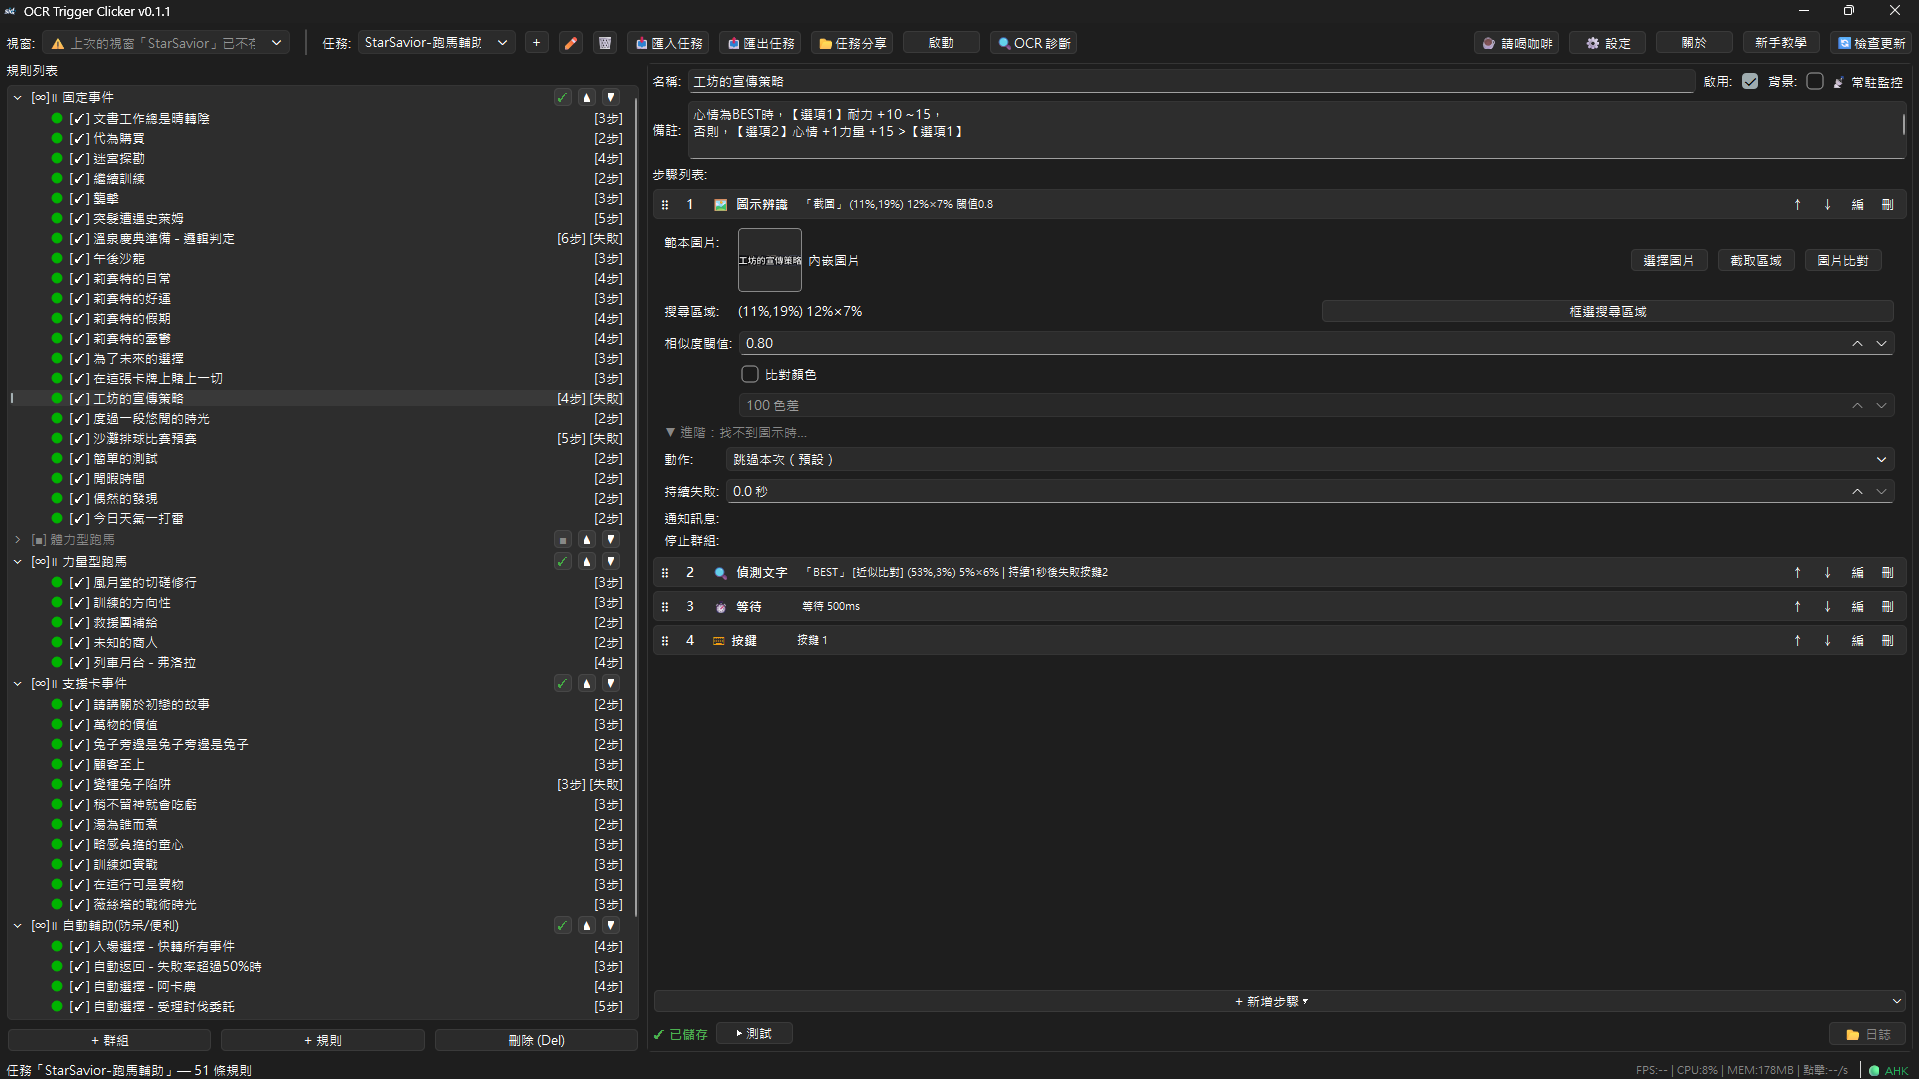
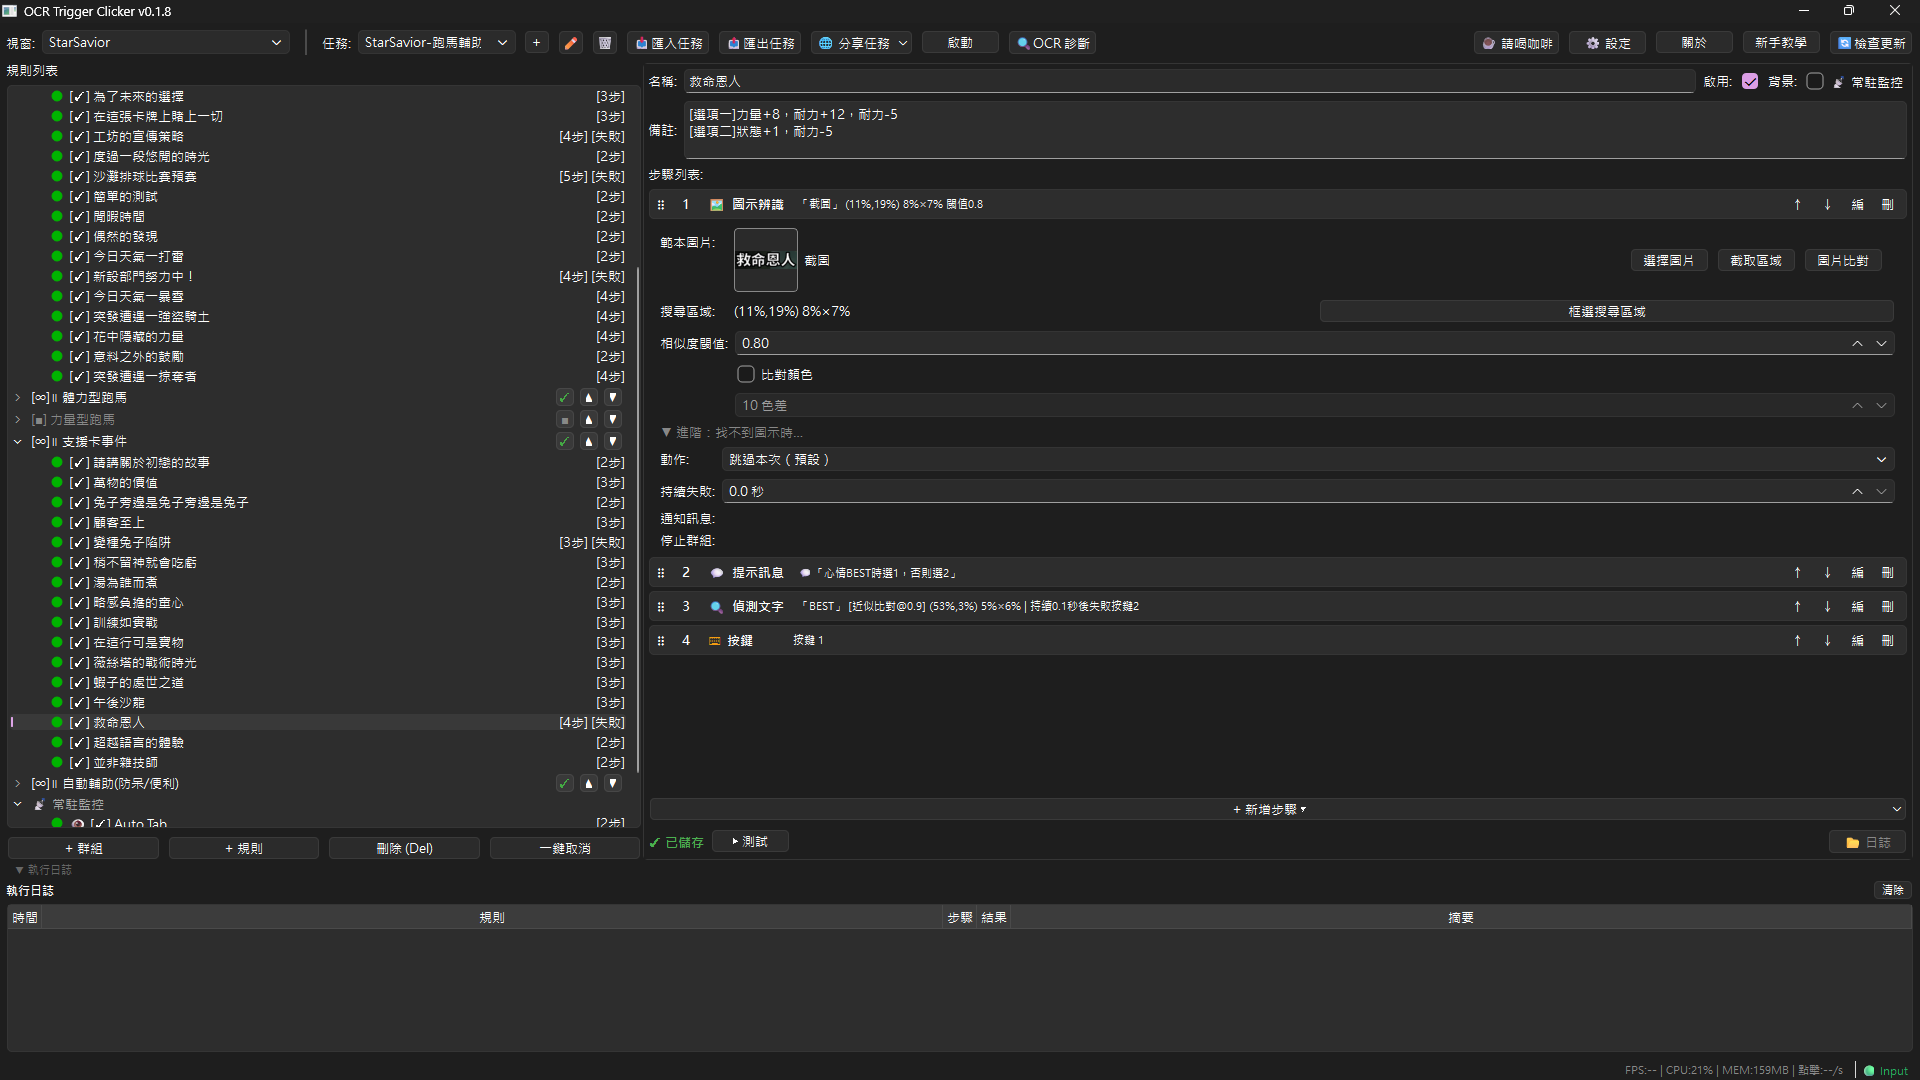
refactor: remove AHK stubs, rename _ahk to _input_mod, update screenshots

diff --git a/core/05_main_loop.py b/core/05_main_loop.py
@@ -19,7 +19,7 @@ from i18n import T  # noqa: E402
 
 _screenshot = load_sibling("screenshot", "core/01_screenshot.py")
 _ocr = load_sibling("ocr_engine", "core/02_ocr_engine.py")
-_ahk = load_sibling("pynput_input", "core/03_pynput_input.py")
+_input_mod = load_sibling("pynput_input", "core/03_pynput_input.py")
 _rule = load_sibling("rule_engine", "core/04_rule_engine.py")
 _perf = load_sibling("performance_monitor", "core/10_performance_monitor.py")
 PerformanceMonitor = _perf.PerformanceMonitor
@@ -274,13 +274,13 @@ class MainLoop:
         return None
 
     def _send_click(self, x: int, y: int, button: str) -> bool:
-        return _ahk.send_click(x, y, button)
+        return _input_mod.send_click(x, y, button)
 
     def _send_key(self, key: str) -> bool:
-        return _ahk.send_key(key)
+        return _input_mod.send_key(key)
 
     def _send_scroll(self, direction: str) -> bool:
-        return _ahk.send_scroll(1, direction)
+        return _input_mod.send_scroll(1, direction)
 
     def _to_screen_coords(self, rect: dict, x: int, y: int) -> tuple[int, int]:
         return (int(round(rect["x"] + x)), int(round(rect["y"] + y)))
@@ -687,7 +687,7 @@ class MainLoop:
 
         hold_ms = params.get("hold_ms", 0)
         if hold_ms > 0:
-            ok = _ahk.send_hold_key(key, hold_ms)
+            ok = _input_mod.send_hold_key(key, hold_ms)
         else:
             ok = self._send_key(key)
         if ok:
@@ -738,7 +738,7 @@ class MainLoop:
         sex, sey = self._to_screen_coords(ctx.rect, sx + dx, sy + dy)
 
         activate_window(self._window_title)
-        ok = _ahk.send_drag(ssx, ssy, sex, sey, button)
+        ok = _input_mod.send_drag(ssx, ssy, sex, sey, button)
         if not ok:
             return StepResult("stop", detail=T("exec_log.detail.comms_fail"))
         self._perf.record_click()
@@ -1303,7 +1303,7 @@ class MainLoop:
         self._emergency_event.set()
         self._stop_event.set()
         self._pause_event.set()
-        _ahk.send_emergency_stop()
+        _input_mod.send_emergency_stop()
         if self.on_emergency:
             self.on_emergency()
 
@@ -1498,10 +1498,10 @@ if __name__ == "__main__":
     assert result.action == "stop", "on_fail stop should return stop"
 
     mock_called = []
-    _orig_k = _ahk.send_key
-    _ahk.send_key = lambda k: mock_called.append(k) or True  # type: ignore[assignment]
+    _orig_k = _input_mod.send_key
+    _input_mod.send_key = lambda k: mock_called.append(k) or True  # type: ignore[assignment]
     result = ml._handle_on_fail({"on_fail": {"action": "key", "key": "Escape"}}, ctx, test_rule)
-    _ahk.send_key = _orig_k
+    _input_mod.send_key = _orig_k
     assert result.action == "continue", "on_fail key should return continue"
     assert ctx.on_fail_fired, "on_fail key should set on_fail_fired"
     assert mock_called == ["Escape"], f"on_fail key should send Escape, got {mock_called}"

diff --git a/tests/test_main_loop.py b/tests/test_main_loop.py
@@ -16,7 +16,7 @@ from _loader import load_sibling  # noqa: E402
 from core.rule_models import Rule, RuleGroup, Step  # noqa: E402
 
 _rule = load_sibling("rule_engine", "core/04_rule_engine.py")
-_ahk = load_sibling("pynput_input", "core/03_pynput_input.py")
+_input_mod = load_sibling("pynput_input", "core/03_pynput_input.py")
 _perf = load_sibling("performance_monitor", "core/10_performance_monitor.py")
 _tmpl = load_sibling("template_matching", "core/11_template_matching.py")
 img_to_b64 = _tmpl.img_to_b64
@@ -205,10 +205,10 @@ def test_handle_on_fail_stop_key():
     assert result.action == "stop"
 
     mock_called = []
-    _orig_k = _ahk.send_key
-    _ahk.send_key = lambda k: mock_called.append(k) or True
+    _orig_k = _input_mod.send_key
+    _input_mod.send_key = lambda k: mock_called.append(k) or True
     result = ml._handle_on_fail({"on_fail": {"action": "key", "key": "Escape"}}, ctx, test_rule)
-    _ahk.send_key = _orig_k
+    _input_mod.send_key = _orig_k
     assert result.action == "continue"
     assert mock_called == ["Escape"]
 

diff --git a/gui/06_gui_main.py b/gui/06_gui_main.py
@@ -2471,7 +2471,6 @@ class _InlineActionEditor(QWidget):
         return {"type": "key", "key": self._key.currentData() or self._key.currentText()}
 
 
-_ahk_mod = load_sibling("pynput_input", "core/03_pynput_input.py")
 _main_loop_mod = load_sibling("main_loop", "core/05_main_loop.py")
 MainLoop = _main_loop_mod.MainLoop
 
@@ -3113,7 +3112,6 @@ class MainWindow(QMainWindow):
             self._status_bar.showMessage(T("status.partial_init_error", e=e))
 
     def _init_input_async(self):
-        self._ahk_ready = True
         self._update_input_status(True)
         self._status_bar.showMessage("✔ Input 已就緒", 3000)
 

diff --git a/core/03_pynput_input.py b/core/03_pynput_input.py
@@ -1,7 +1,6 @@
 import logging
 import threading
 import time
-from typing import Optional
 
 import pynput.keyboard
 import pynput.mouse
@@ -229,22 +228,6 @@ def send_hold_key(key: str, duration_ms: int = 0) -> bool:
 def send_emergency_stop() -> bool:
     _log.warning("緊急停止請求 (pynput 無外部行程，僅記錄)")
     return True
-
-
-def is_ahk_available() -> bool:
-    return True
-
-
-def init_ahk(*args, **kwargs) -> bool:
-    return True
-
-
-def download_ahk() -> bool:
-    return True
-
-
-def set_ahk_health_callback(cb: Optional[callable]) -> None:
-    pass
 
 
 def shutdown() -> None:
